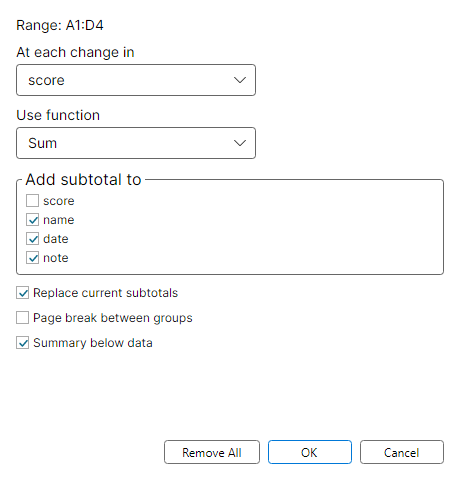
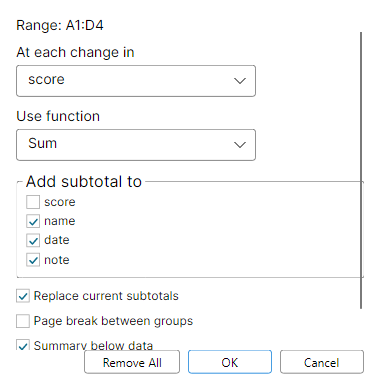
Reduce FreeX dialog size mismatch evidence

diff --git a/tests/FreeX.App.Avalonia.Tests/AvaloniaSheetDialogSizeSourceTests.cs b/tests/FreeX.App.Avalonia.Tests/AvaloniaSheetDialogSizeSourceTests.cs
@@ -37,6 +37,49 @@ public sealed class AvaloniaSheetDialogSizeSourceTests
         unhideDialog.Should().Contain("ApplyDialogButtonChrome(cancelButton, width: 72);");
     }
 
+    [Fact]
+    public void RemainingDataDialogs_UseWpfLogicalCaptureSizes()
+    {
+        var paritySource = File.ReadAllText(RepoFile("src", "FreeX.App.Avalonia", "MainWindow.ParityCapture.cs"));
+        paritySource.Should().Contain("private const int ForecastSheetParityDialogWidth = 320;");
+        paritySource.Should().Contain("private const int ForecastSheetParityDialogHeight = 150;");
+        paritySource.Should().Contain("private const int SubtotalParityDialogWidth = 380;");
+        paritySource.Should().Contain("private const int SubtotalParityDialogHeight = 390;");
+        paritySource.Should().Contain("private const int TextToColumnsParityDialogWidth = 500;");
+        paritySource.Should().Contain("private const int TextToColumnsParityDialogHeight = 430;");
+
+        var mainWindowSource = File.ReadAllText(RepoFile("src", "FreeX.App.Avalonia", "MainWindow.cs"));
+        var forecastDialog = ExtractMethodSource(
+            mainWindowSource,
+            "private async Task<ForecastSheetPlan?> ShowForecastSheetInputDialogAsync()",
+            "private static string FormatForecastSheetPlanError(ForecastSheetPlan plan)");
+        forecastDialog.Should().Contain("Width = ForecastSheetParityDialogWidth,");
+        forecastDialog.Should().Contain("Height = ForecastSheetParityDialogHeight,");
+        forecastDialog.Should().Contain("MinWidth = ForecastSheetParityDialogWidth,");
+        forecastDialog.Should().Contain("MinHeight = ForecastSheetParityDialogHeight,");
+        forecastDialog.Should().Contain("MaxWidth = ForecastSheetParityDialogWidth,");
+        forecastDialog.Should().Contain("MaxHeight = ForecastSheetParityDialogHeight,");
+
+        var subtotalDialog = ExtractMethodSource(
+            mainWindowSource,
+            "private async Task<SubtotalDialogResult?> ShowSubtotalInputDialogAsync()",
+            "private static StackPanel CreateSubtotalField(string label, Control control)");
+        subtotalDialog.Should().Contain("Width = SubtotalParityDialogWidth,");
+        subtotalDialog.Should().Contain("Height = SubtotalParityDialogHeight,");
+        subtotalDialog.Should().Contain("MinWidth = SubtotalParityDialogWidth,");
+        subtotalDialog.Should().Contain("MinHeight = SubtotalParityDialogHeight,");
+
+        var textToColumnsSource = File.ReadAllText(RepoFile("src", "FreeX.App.Avalonia", "MainWindow.TextToColumns.cs"));
+        var textToColumnsDialog = ExtractMethodSource(
+            textToColumnsSource,
+            "private async Task ShowTextToColumnsDialogAsync()",
+            "private static IReadOnlyList<string> ReadTextToColumnsSources(Sheet sheet, GridRange range)");
+        textToColumnsDialog.Should().Contain("Width = TextToColumnsParityDialogWidth,");
+        textToColumnsDialog.Should().Contain("Height = TextToColumnsParityDialogHeight,");
+        textToColumnsDialog.Should().Contain("MinWidth = TextToColumnsParityDialogWidth,");
+        textToColumnsDialog.Should().Contain("MinHeight = TextToColumnsParityDialogHeight,");
+    }
+
     private static string ExtractMethodSource(string source, string startMarker, string endMarker)
     {
         var start = source.IndexOf(startMarker, StringComparison.Ordinal);

diff --git a/src/FreeX.App.Avalonia/MainWindow.cs b/src/FreeX.App.Avalonia/MainWindow.cs
@@ -15205,10 +15205,10 @@ public sealed partial class MainWindow : Window
         var dialog = new Window
         {
             Title = "Subtotal",
-            Width = 460,
-            Height = 480,
-            MinWidth = 400,
-            MinHeight = 380,
+            Width = SubtotalParityDialogWidth,
+            Height = SubtotalParityDialogHeight,
+            MinWidth = SubtotalParityDialogWidth,
+            MinHeight = SubtotalParityDialogHeight,
             WindowStartupLocation = WindowStartupLocation.CenterOwner,
             ShowInTaskbar = false,
         };
@@ -16591,12 +16591,12 @@ public sealed partial class MainWindow : Window
         var dialog = new Window
         {
             Title = "Forecast Sheet",
-            Width = 360,
-            Height = 220,
-            MinWidth = 360,
-            MinHeight = 220,
-            MaxWidth = 360,
-            MaxHeight = 220,
+            Width = ForecastSheetParityDialogWidth,
+            Height = ForecastSheetParityDialogHeight,
+            MinWidth = ForecastSheetParityDialogWidth,
+            MinHeight = ForecastSheetParityDialogHeight,
+            MaxWidth = ForecastSheetParityDialogWidth,
+            MaxHeight = ForecastSheetParityDialogHeight,
             CanResize = false,
             WindowStartupLocation = WindowStartupLocation.CenterOwner,
             ShowInTaskbar = false,

diff --git a/src/FreeX.App.Avalonia/MainWindow.ParityCapture.cs b/src/FreeX.App.Avalonia/MainWindow.ParityCapture.cs
@@ -56,6 +56,12 @@ public sealed partial class MainWindow
     private const int ParityCaptureTitleBarHeight = 30;
     private const int ParityCaptureDialogWaitMilliseconds = 8000;
     private const int ParityCaptureDialogPollMilliseconds = 50;
+    private const int ForecastSheetParityDialogWidth = 320;
+    private const int ForecastSheetParityDialogHeight = 150;
+    private const int SubtotalParityDialogWidth = 380;
+    private const int SubtotalParityDialogHeight = 390;
+    private const int TextToColumnsParityDialogWidth = 500;
+    private const int TextToColumnsParityDialogHeight = 430;
     private static readonly FontFamily ParityNarrowUiFontFamily =
         new("Segoe UI, Arial Narrow, Aptos Narrow, Liberation Sans Narrow, Nimbus Sans Narrow, DejaVu Sans Condensed, Arial, Liberation Sans, sans-serif");
     private static readonly IBrush ParityBackstageSidebarBrush = Brush(0x10, 0x25, 0x3A);

diff --git a/src/FreeX.App.Avalonia/MainWindow.TextToColumns.cs b/src/FreeX.App.Avalonia/MainWindow.TextToColumns.cs
@@ -61,10 +61,10 @@ public sealed partial class MainWindow
         var dialog = new Window
         {
             Title = UiText.Format("TableLoc_TtcWizardTitle", 1, 3),
-            Width = 560,
-            Height = 560,
-            MinWidth = 520,
-            MinHeight = 500,
+            Width = TextToColumnsParityDialogWidth,
+            Height = TextToColumnsParityDialogHeight,
+            MinWidth = TextToColumnsParityDialogWidth,
+            MinHeight = TextToColumnsParityDialogHeight,
             WindowStartupLocation = WindowStartupLocation.CenterOwner,
             ShowInTaskbar = false,
         };

diff --git a/docs/parity/dialog-visual-evidence-summary.md b/docs/parity/dialog-visual-evidence-summary.md
@@ -31,22 +31,22 @@ Sources:
 | WPF manifest ids without Avalonia pair | 0 |
 | Avalonia-manifest-only screenshot surface ids needing WPF manifest pair | 0 |
 | Nonblank PNG check failures | 0 |
-| Paired dimension mismatches (scale-aware logical units) | 50 |
+| Paired dimension mismatches (scale-aware logical units) | 47 |
 | Raw PNG pixel dimension mismatches | 71 |
-| Raw PNG mismatches normalized by capture DPI | 21 |
+| Raw PNG mismatches normalized by capture DPI | 24 |
 | Paired expected-size evidence mismatches | 0 |
 | Stale promoted expected-size evidence | 0 |
 
 ## Scale-Aware Dimension Mismatch Classification
 
-The 50 scale-aware logical dimension mismatches are bucketed from committed PNG evidence and deterministic surface-id rules. Buckets describe the next review posture: align real layout sizes, fix content/state drift before comparing, accept expected platform/native control differences, or refresh limited evidence.
+The 47 scale-aware logical dimension mismatches are bucketed from committed PNG evidence and deterministic surface-id rules. Buckets describe the next review posture: align real layout sizes, fix content/state drift before comparing, accept expected platform/native control differences, or refresh limited evidence.
 
 | Bucket | Count | Top surface ids | Top next action |
 | --- | ---: | --- | --- |
 | content/visual mismatch | 14 | dialog.ScenarioManager<br>dialog.SelectionPane<br>dialog.AccessibilityChecker<br>dialog.SymbolPicker<br>dialog.FormatCells.Alignment | Align the seeded harness state before judging the remaining Scenario Manager dimensions. |
 | evidence limitation | 2 | dialog.GoalSeekStatus<br>dialog.PivotTableOptions.Display | Recapture or tighten the WPF status crop before treating the height delta as a product bug. |
 | expected platform/native difference | 19 | dialog.FindReplace.Replace<br>dialog.FindReplace<br>dialog.FindReplace.Find<br>dialog.Sparkline<br>dialog.Options.QuickAccessToolbar | Keep as expected platform/native variance unless parity policy later requires exact control metrics. |
-| real logical-size mismatch | 15 | dialog.ForecastSheet<br>dialog.Subtotal<br>dialog.GoToSpecial<br>dialog.Sort<br>dialog.TextToColumns | Review the WPF/Avalonia planner or layout target, then align the size or document an intentional size contract. |
+| real logical-size mismatch | 12 | dialog.GoToSpecial<br>dialog.Sort<br>dialog.PivotTableOptions<br>dialog.PivotTableOptions.LayoutAndFormat<br>dialog.WatchWindow | Review the WPF/Avalonia planner or layout target, then align the size or document an intentional size contract. |
 
 ## Top paired visual outliers
 
@@ -78,7 +78,6 @@ Outliers are ranked by a deterministic triage score: normalized 32x32 ARGB sampl
 | dialog.FindReplace | expected platform/native difference | 720x430 | 720x440 | 0x10 | The PNGs show the same paired surface with small WPF/Avalonia control, chrome, or default-spacing differences. | Keep as expected platform/native variance unless parity policy later requires exact control metrics. |
 | dialog.FindReplace.Find | expected platform/native difference | 720x430 | 720x440 | 0x10 | The PNGs show the same paired surface with small WPF/Avalonia control, chrome, or default-spacing differences. | Keep as expected platform/native variance unless parity policy later requires exact control metrics. |
 | dialog.FindReplace.Replace | expected platform/native difference | 720x430 | 720x440 | 0x10 | The PNGs show the same paired surface with small WPF/Avalonia control, chrome, or default-spacing differences. | Keep as expected platform/native variance unless parity policy later requires exact control metrics. |
-| dialog.ForecastSheet | real logical-size mismatch | 320x150 | 360x220 | 40x70 | The paired surface has a DPI-normalized logical size delta above tolerance with no known evidence-only exemption. | Review the WPF/Avalonia planner or layout target, then align the size or document an intentional size contract. |
 | dialog.FormatCells | content/visual mismatch | 620x540 | 690x660 | 70x120 | The Format Cells captures differ in tab/control presentation and content density in addition to size. | Review the Format Cells tab model, tab order, and target frame size together. |
 | dialog.FormatCells.Alignment | content/visual mismatch | 620x540 | 690x660 | 70x120 | The Format Cells captures differ in tab/control presentation and content density in addition to size. | Review the Format Cells tab model, tab order, and target frame size together. |
 | dialog.FormatCells.Border | content/visual mismatch | 620x540 | 690x660 | 70x120 | The Format Cells captures differ in tab/control presentation and content density in addition to size. | Review the Format Cells tab model, tab order, and target frame size together. |
@@ -114,9 +113,7 @@ Outliers are ranked by a deterministic triage score: normalized 32x32 ARGB sampl
 | dialog.ShapeGradient | real logical-size mismatch | 420x280 | 500x300 | 80x20 | The paired surface has a DPI-normalized logical size delta above tolerance with no known evidence-only exemption. | Review the WPF/Avalonia planner or layout target, then align the size or document an intentional size contract. |
 | dialog.Sort | real logical-size mismatch | 640x420 | 760x500 | 120x80 | The paired surface has a DPI-normalized logical size delta above tolerance with no known evidence-only exemption. | Review the WPF/Avalonia planner or layout target, then align the size or document an intentional size contract. |
 | dialog.Sparkline | expected platform/native difference | 380x240 | 372x230 | 8x10 | The PNGs show the same paired surface with small WPF/Avalonia control, chrome, or default-spacing differences. | Keep as expected platform/native variance unless parity policy later requires exact control metrics. |
-| dialog.Subtotal | real logical-size mismatch | 380x390 | 460x480 | 80x90 | The paired surface has a DPI-normalized logical size delta above tolerance with no known evidence-only exemption. | Review the WPF/Avalonia planner or layout target, then align the size or document an intentional size contract. |
 | dialog.SymbolPicker | content/visual mismatch | 620x500 | 840x620 | 220x120 | The committed PNGs show different symbol-picker presentations, including Avalonia search/detail content absent from WPF. | Decide the target symbol-picker contract, then align either WPF evidence state or Avalonia layout. |
-| dialog.TextToColumns | real logical-size mismatch | 500x430 | 560x560 | 60x130 | The paired surface has a DPI-normalized logical size delta above tolerance with no known evidence-only exemption. | Review the WPF/Avalonia planner or layout target, then align the size or document an intentional size contract. |
 | dialog.WatchWindow | real logical-size mismatch | 620x320 | 700x360 | 80x40 | The paired surface has a DPI-normalized logical size delta above tolerance with no known evidence-only exemption. | Review the WPF/Avalonia planner or layout target, then align the size or document an intentional size contract. |
 | dialog.WorkbookStatistics | real logical-size mismatch | 360x260 | 380x320 | 20x60 | The paired surface has a DPI-normalized logical size delta above tolerance with no known evidence-only exemption. | Review the WPF/Avalonia planner or layout target, then align the size or document an intentional size contract. |
 
@@ -151,7 +148,7 @@ These rows have a DPI-normalized checked-in PNG size that disagrees with the dia
 | dialog.FindReplace | dialog.FindReplace.png | 720x430 | 720x430 px @ 96 DPI | True | dialog.FindReplace.png | 720x440 | 720x440 px @ 96 DPI | True | False | 0.418 |
 | dialog.FindReplace.Find | dialog.FindReplace.Find.png | 720x430 | 720x430 px @ 96 DPI | True | dialog.FindReplace.Find.png | 720x440 | 720x440 px @ 96 DPI | True | False | 0.418 |
 | dialog.FindReplace.Replace | dialog.FindReplace.Replace.png | 720x430 | 720x430 px @ 96 DPI | True | dialog.FindReplace.Replace.png | 720x440 | 720x440 px @ 96 DPI | True | False | 0.467 |
-| dialog.ForecastSheet | dialog.ForecastSheet.png | 320x150 | 480x225 px @ 144 DPI | True | dialog.ForecastSheet.png | 360x220 | 360x220 px @ 96 DPI | True | False | 0.686 |
+| dialog.ForecastSheet | dialog.ForecastSheet.png | 320x150 | 480x225 px @ 144 DPI | True | dialog.ForecastSheet.png | 320x150 | 320x150 px @ 96 DPI | True | True | 0.057 |
 | dialog.FormatCells | dialog.FormatCells.png | 620x540 | 620x540 px @ 96 DPI | True | dialog.FormatCells.png | 690x660 | 690x660 px @ 96 DPI | True | False | 0.610 |
 | dialog.FormatCells.Alignment | dialog.FormatCells.Alignment.png | 620x540 | 620x540 px @ 96 DPI | True | dialog.FormatCells.Alignment.png | 690x660 | 690x660 px @ 96 DPI | True | False | 0.768 |
 | dialog.FormatCells.Border | dialog.FormatCells.Border.png | 620x540 | 620x540 px @ 96 DPI | True | dialog.FormatCells.Border.png | 690x660 | 690x660 px @ 96 DPI | True | False | 0.753 |
@@ -217,9 +214,9 @@ These rows have a DPI-normalized checked-in PNG size that disagrees with the dia
 | dialog.Sort | dialog.Sort.png | 640x420 | 960x630 px @ 144 DPI | True | dialog.Sort.png | 760x500 | 760x500 px @ 96 DPI | True | False | 0.492 |
 | dialog.SortOptions | dialog.SortOptions.png | 330x260 | 495x390 px @ 144 DPI | True | dialog.SortOptions.png | 330x260 | 330x260 px @ 96 DPI | True | True | 0.237 |
 | dialog.Sparkline | dialog.Sparkline.png | 380x240 | 570x360 px @ 144 DPI | True | dialog.Sparkline.png | 372x230 | 372x230 px @ 96 DPI | True | False | 0.307 |
-| dialog.Subtotal | dialog.Subtotal.png | 380x390 | 570x585 px @ 144 DPI | True | dialog.Subtotal.png | 460x480 | 460x480 px @ 96 DPI | True | False | 0.639 |
+| dialog.Subtotal | dialog.Subtotal.png | 380x390 | 570x585 px @ 144 DPI | True | dialog.Subtotal.png | 380x390 | 380x390 px @ 96 DPI | True | True | 0.166 |
 | dialog.SymbolPicker | dialog.SymbolPicker.png | 620x500 | 930x750 px @ 144 DPI | True | dialog.SymbolPicker.png | 840x620 | 840x620 px @ 96 DPI | True | False | 0.804 |
-| dialog.TextToColumns | dialog.TextToColumns.png | 500x430 | 750x645 px @ 144 DPI | True | dialog.TextToColumns.png | 560x560 | 560x560 px @ 96 DPI | True | False | 0.468 |
+| dialog.TextToColumns | dialog.TextToColumns.png | 500x430 | 750x645 px @ 144 DPI | True | dialog.TextToColumns.png | 500x430 | 500x430 px @ 96 DPI | True | True | 0.089 |
 | dialog.UnhideSheet | dialog.UnhideSheet.png | 340x160 | 510x240 px @ 144 DPI | True | dialog.UnhideSheet.png | 340x160 | 340x160 px @ 96 DPI | True | True | 0.041 |
 | dialog.WatchWindow | dialog.WatchWindow.png | 620x320 | 930x480 px @ 144 DPI | True | dialog.WatchWindow.png | 700x360 | 700x360 px @ 96 DPI | True | False | 0.444 |
 | dialog.WorkbookStatistics | dialog.WorkbookStatistics.png | 360x260 | 540x390 px @ 144 DPI | True | dialog.WorkbookStatistics.png | 380x320 | 380x320 px @ 96 DPI | True | False | 0.338 |
